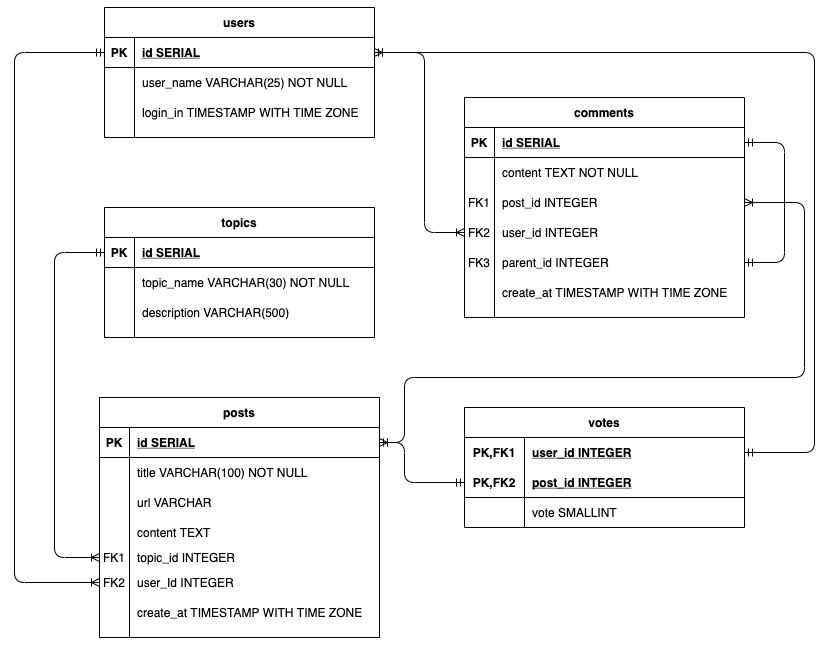
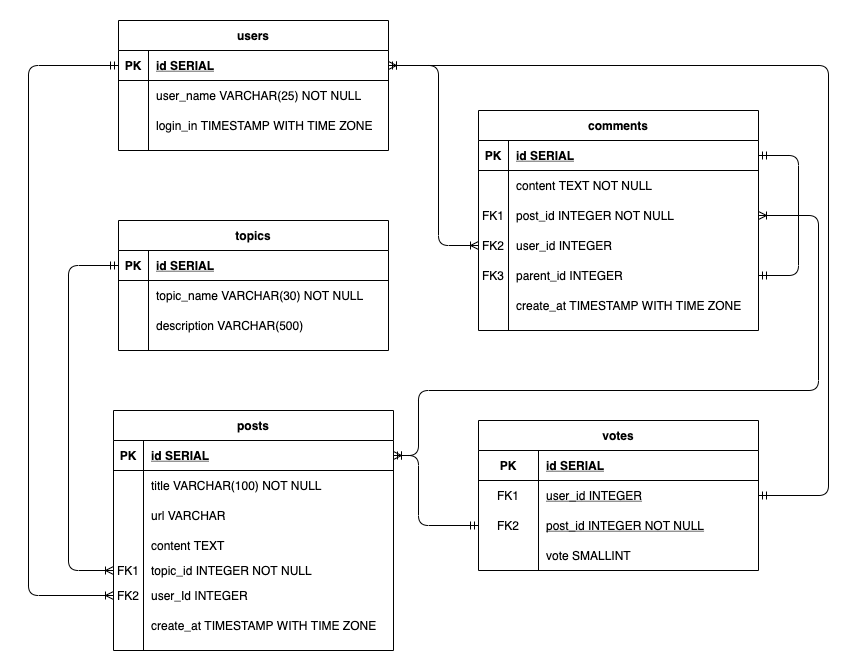
docs: Rectify the ERD and add 'How to Use the Code'

diff --git a/README.md b/README.md
@@ -36,7 +36,7 @@ Here is the DDL used to create the orginal (bad) schema:
 
 You can find the complete codes and data in `bad-db.sql` file.
 
-## Steps to Take
+## Steps to Go
 
 This project was based on the following three main steps:
 
@@ -52,7 +52,7 @@ This project was based on the following three main steps:
     Once the new schema is created, it’s time to migrate the data from the provided schema. Some guidelines have also been listed in the following section.
 
 ## Requirements for New Database Schema Design
-### Guideline I
+### Guideline I - About creating tables
 
 Here is a list of features and specifications that Udiddit needs in order to support its website and administrative interface:
 
@@ -87,7 +87,7 @@ e. Make sure that a given user can only vote once on a given post:
 - If the user who cast a vote gets deleted, then all their votes will remain, but will become dissociated from the user.
 - If a post gets deleted, then all the votes for that post should be automatically deleted too.
 
-### Guideline II
+### Guideline II - About the queries
 Here is a list of queries that Udiddit needs in order to support its website and administrative interface. They are provided only to guide the design of new database schema.
 - List all users who haven’t logged in in the last year.
 - List all users who haven’t created any post.
@@ -127,9 +127,12 @@ After executing the DDL in the `udiddit_social_news_aggregator.sql`, we can get 
 6. Tip: We can start by running only `SELECT`s to fine-tune your queries, and use a `LIMIT` to avoid large data sets. Once we know we have the correct query, we can then run our full `INSERT...SELECT` query.
 
 
- 
+## How to Use the Codes
+There are two files included under the folder called `bad-db.sql` and `udiddit_social_news_aggregator.sql`.
 
+Firstly, running the `bad-db.sql` in the possgres terminal, we can create the original (bad) database schema as well as importing the data.
 
+Secondly, running the codes in the `udiddit_social_news_aggregator.sql` block by block, we can reconstruct the normalized (new) database schema and migrate the data respectively.
 
 
  
